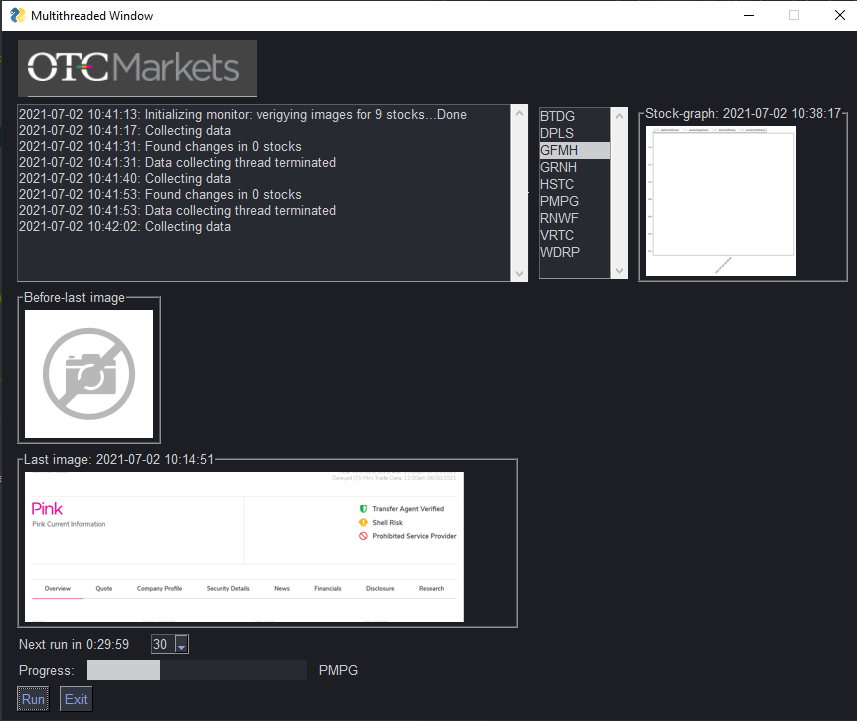
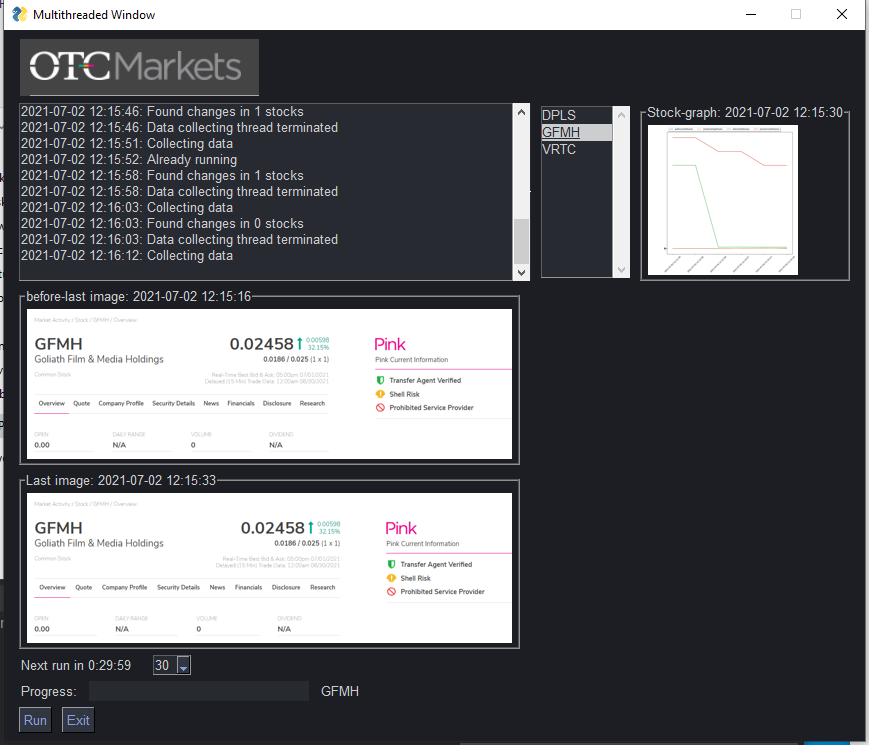
Working in debug mode

diff --git a/gui.py b/gui.py
@@ -1,4 +1,3 @@
-#!/usr/bin/python3
 import time
 import PySimpleGUI as sg
 from time import time
@@ -6,6 +5,7 @@ import threading
 import datetime
 import utils
 import os
+from pathlib import Path
 
 from utils import get_img_data
 # sg.theme_previewer()
@@ -14,6 +14,18 @@ from utils import get_img_data
 def t_print(x, end=None):
     time_str = str(datetime.datetime.now()).split(".")[0]
     print(f"{time_str}: {x}", end=end)
+
+def verify_initial_data(monitor):
+    global thread_messages
+    for i, stock_name in enumerate(monitor.stock_names):
+        stock_dir_path = os.path.join(monitor.output_dir, stock_name)
+        if not os.path.exists(stock_dir_path):
+            os.makedirs(stock_dir_path, exist_ok=True)
+            stock_data = monitor.collect_stock_data(stock_name)
+            monitor.save_current_data(stock_name, stock_data)
+            monitor.screenshost_stock(stock_name)
+        thread_messages['progress'] = i
+        thread_messages['progress_txt'] = f"{stock_name}"
 
 
 def drive_single_pass(monitor):
@@ -31,7 +43,7 @@ def drive_single_pass(monitor):
                 monitor.write_plot_fields_data(stock_name, stock_data)
 
                 monitor.write_changes(stock_name, stock_changes)
-                monitor.screenshost_stock(stock_name, force_shot=True)
+                monitor.screenshost_stock(stock_name)
                 num_changes += 1
 
         monitor.save_current_data(stock_name, stock_data)
@@ -41,13 +53,6 @@ def drive_single_pass(monitor):
     thread_messages['progress_txt'] = ''
     thread_messages['msg'] = f"Found changes in {num_changes} stocks"
 
-
-def verify_initial_screenshots(monitor):
-    global thread_messages
-    for i, stock_name in enumerate(monitor.stock_names):
-        ret_val = monitor.screenshost_stock(stock_name)
-        thread_messages['progress'] = i
-        thread_messages['progress_txt'] = f"{stock_name}: {'OK' if ret_val == 0  else str(-1*ret_val) + ' errors'}"
 
 # def read_arguments_layout(time_left, n):
 #     layout = [[sg.Text('Machine Learning Command Line Parameters', font=('Helvetica', 16))],
@@ -117,7 +122,7 @@ def manage_monitor(monitor):
 
     # --------------------- INIT LOOP ---------------------
     t_print(f"Initializing monitor: verigying images for {len(monitor.stock_names)} stocks...", end='')
-    thread = threading.Thread(target=verify_initial_screenshots, args=(monitor,), daemon=True)
+    thread = threading.Thread(target=verify_initial_data, args=(monitor,), daemon=True)
     thread.start()
     while thread:
         event, _ = window.read(timeout=1)
@@ -177,14 +182,22 @@ def manage_monitor(monitor):
 
 
 def try_load_images(monitor, window, stock_name):
+    overview_images_dir = os.path.join(monitor.output_dir, stock_name, "status_images", 'overview')
+    img_paths = sorted(Path(overview_images_dir).iterdir(), key=os.path.getmtime)
+    before_last_img_path = last_img_path = None
+    if len(img_paths) >= 1:
+        last_img_path = img_paths[-1]
+    if len(img_paths) > 1:
+        before_last_img_path = img_paths[-2]
+
     image_paths = [
         ('Stock-graph', os.path.join(monitor.output_dir, stock_name, 'special_fields.png'), None, (150, 150)),
-        ('before-last image', os.path.join(monitor.output_dir, stock_name, "status_images", 'overview-before-last.png'), (0, 275, 1050, 600), (500, 150)),
-        ('Last image', os.path.join(monitor.output_dir, stock_name, "status_images", 'overview-last.png'), (0, 275, 1050, 600), (500, 150)),
+        ('before-last image', before_last_img_path, (0, 275, 1050, 600), (500, 150)),
+        ('Last image', last_img_path, (0, 275, 1050, 600), (500, 150)),
     ]
 
     for i, (name, img_path, crop, maxsize) in enumerate(image_paths):
-        if os.path.exists(img_path):
+        if img_path and os.path.exists(img_path):
             # window.Element(f"status_image_{i}").Update(filename=img_path)
             img_data = get_img_data(img_path, first=True, crop=crop, maxsize=maxsize)
             window.Element(f"status_image_{i}").Update(data=img_data)

diff --git a/stock_monitor.py b/stock_monitor.py
@@ -1,8 +1,7 @@
 import pickle
 import json
 import os
-import datetime
-from shutil import move
+from pathlib import Path
 
 from screen_shooter import ScreenShooter
 import utils
@@ -17,7 +16,7 @@ class StockMonitor:
         self.screenshoter = ScreenShooter(wait_time=1)
         self.output_dir = args.output_dir
         self.screenshoter.wait_time = args.screenshot_wait_time
-
+        self.max_status_images = 10
         self.load_cached_data()
 
     def load_cached_data(self):
@@ -39,20 +38,21 @@ class StockMonitor:
         # pd.DataFrame.from_dict({k: [v] for k, v in stock_data.items()}).to_csv(csv_path, mode='a',
         #                                                                header=not os.path.exists(csv_path))
 
-    def screenshost_stock(self, stock_name, force_shot=False):
+    def screenshost_stock(self, stock_name):
         """Take a screen shot from the three tabs of this stock page"""
-        dirname = os.path.join(self.output_dir, stock_name, "status_images")
-        if os.path.exists(dirname) and not force_shot:
-            return 0
-        os.makedirs(dirname, exist_ok=True)
+
         ret_val = 0
         for tab_name in ['profile', 'overview', 'security']:
-            last_path = os.path.join(dirname, f"{tab_name}-last.png")
-            if os.path.exists(last_path):
-                before_last_path = os.path.join(dirname, f"{tab_name}-before-last.png")
-                move(last_path, before_last_path)
-            ret_val += self.screenshoter.take_full_screen_screenshot(
-                f"https://www.otcmarkets.com/stock/{stock_name}/{tab_name}", last_path)
+            dirpath = os.path.join(self.output_dir, stock_name, "status_images", tab_name)
+            os.makedirs(dirpath, exist_ok=True)
+            time_str = utils.get_time_str(for_filename=True)
+            new_file_path = os.path.join(dirpath, f"{time_str}.png")
+            ret_val += self.screenshoter.take_full_screen_screenshot(f"https://www.otcmarkets.com/stock/{stock_name}/{tab_name}", new_file_path)
+
+            if len(os.listdir(dirpath)) > self.max_status_images:
+                oldest_path = min(Path(dirpath).iterdir(), key=os.path.getmtime)
+                os.remove(oldest_path)
+
         return ret_val
 
     def collect_stock_data(self, stock_name):
@@ -66,7 +66,6 @@ class StockMonitor:
             return None
 
         # manager_names = ['Kevin Booker', 'Kevin durant', 'Micheal Jordan', 'Kobi Bryant', 'Chris Paul', 'R Donoven JR']
-        # import numpy as np
         # import random
         # if random.random() > 0.2:
         #     data = {"securities_0_authorizedShares": random.choice([1,2,3,4]),
@@ -75,12 +74,12 @@ class StockMonitor:
         #             "securities_0_unrestrictedShares": random.choice([555,666,777,888])}
         # else:
         #     data = None
-        return data
+        # return data
 
     def write_changes(self, stock_name, stock_changes):
         """Dumpy changes to log file"""
         if stock_changes:
-            time_str = str(datetime.datetime.now()).replace(" ", "_").replace(":", '-').split(".")[0]
+            time_str = utils.get_time_str(for_filename=True)
 
             logs_path = os.path.join(self.output_dir, stock_name, 'change_logs')
             os.makedirs(logs_path, exist_ok=True)
@@ -97,7 +96,7 @@ class StockMonitor:
     def write_plot_fields_data(self, stock_name, stock_data):
         """Add an entry of current data of the plot fields and update the plot"""
         if stock_data:
-            time_str = str(datetime.datetime.now()).replace(" ", "-").split(".")[0]
+            time_str = utils.get_time_str(for_filename=False)
 
             output_dir = os.path.join(self.output_dir, stock_name)
             os.makedirs(output_dir, exist_ok=True)

diff --git a/utils.py b/utils.py
@@ -1,6 +1,7 @@
 import json
 import os
 import urllib.request
+from datetime import datetime
 
 from multiprocessing import Process
 
@@ -106,3 +107,12 @@ def get_img_data(f, maxsize=(200, 200), first=False, crop=None):
         del img
         return bio.getvalue()
     return ImageTk.PhotoImage(img)
+
+
+def get_time_str(for_filename=True):
+    t = datetime.now()
+    if for_filename:
+        time_str = str(t).replace(" ", "_").replace(":", '-').split(".")[0]
+    else:
+        time_str = str(t).replace(" ", "-").split(".")[0]
+    return time_str
